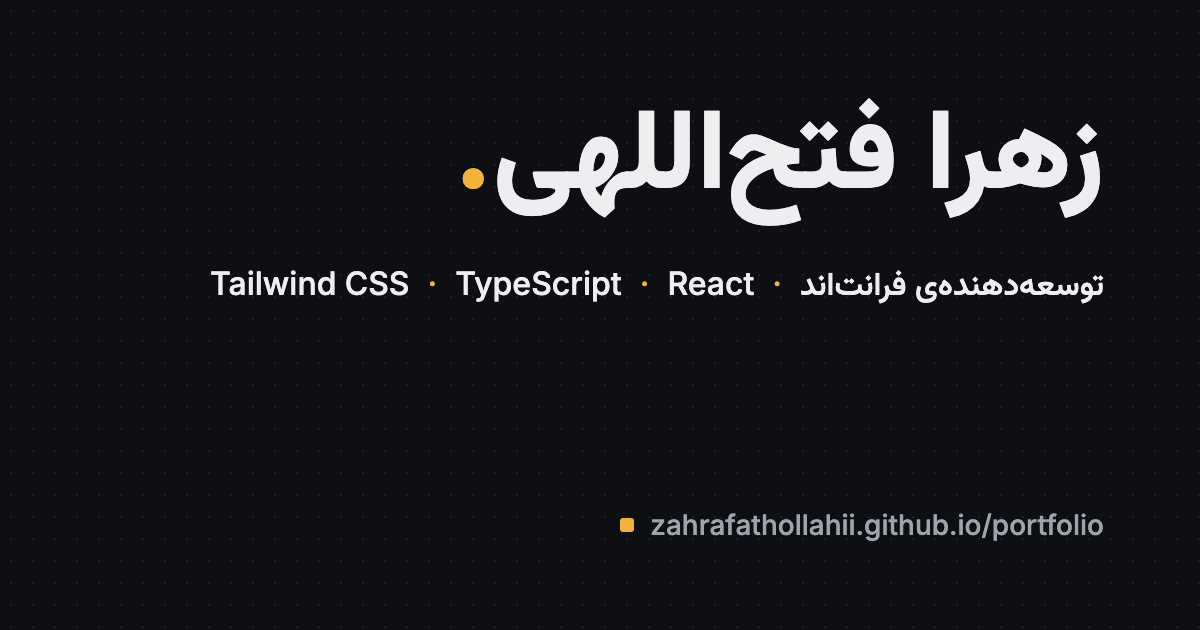
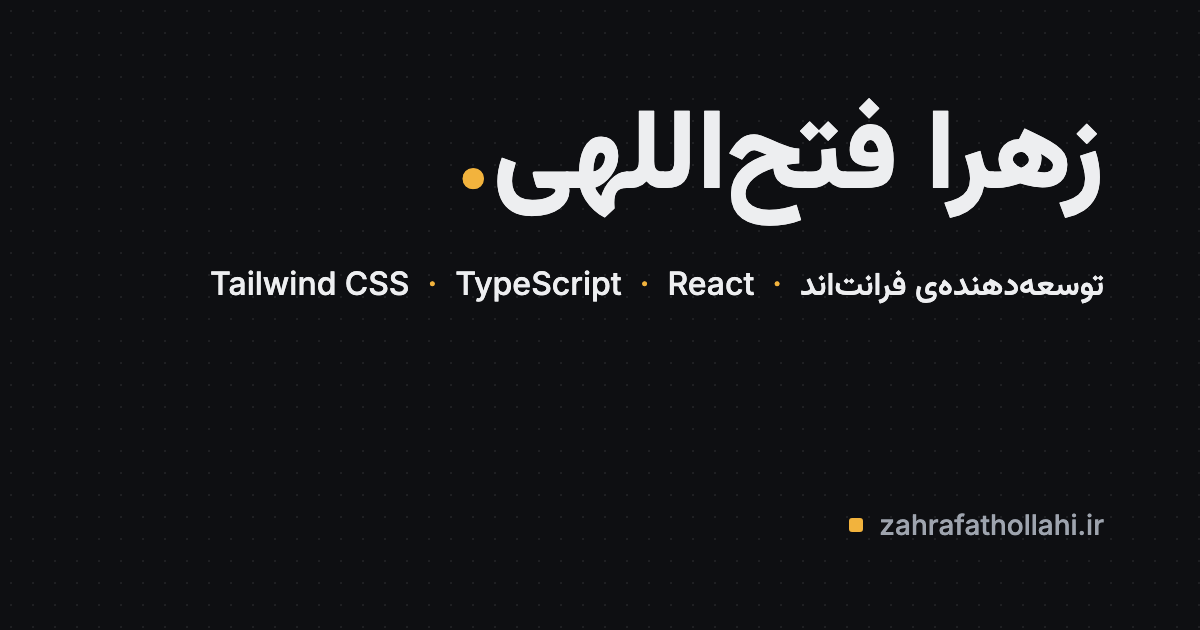
feat: move to the custom domain zahrafathollahi.ir
- BASE_PATH is now empty and SITE_URL is the apex domain (no trailing slash)
- public/CNAME, regenerated OG images, README and AGENTS.md hosting notes
- robots.txt now sits at the domain root, so the old caveat is gone

Changed region(s): [[0.4933, 0.8143, 0.925, 0.8746]]

diff --git a/src/lib/seo.ts b/src/lib/seo.ts
@@ -8,7 +8,7 @@ const openGraphLocale: Record<Locale, string> = { en: "en_US", fa: "fa_IR" };
 
 /** Absolute URL of a localized page. `path` has no leading slash and keeps the trailing one ("projects/mssp/"). */
 export function localeUrl(locale: Locale, path = ""): string {
-  return `${SITE_URL}${locale}/${path}`;
+  return `${SITE_URL}/${locale}/${path}`;
 }
 
 /** hreflang map for a path, with x-default = the default locale. */
@@ -40,7 +40,7 @@ export async function pageMetadata({
   const fullTitle = title ? `${title} · ${t("site.name")}` : t("site.title");
   const url = localeUrl(locale, path);
   const image = {
-    url: `${SITE_URL}og/og-${locale}.png`,
+    url: `${SITE_URL}/og/og-${locale}.png`,
     width: 1200,
     height: 630,
     alt: t("site.title"),

diff --git a/src/config/site.ts b/src/config/site.ts
@@ -3,12 +3,11 @@
  * Everything that builds a URL (links to raw assets, metadata, sitemap, canonical)
  * must read from here — never hard-code the base path.
  */
-export const BASE_PATH = "/portfolio";
+/** Path prefix of the site on its host. Empty: served from the domain root. */
+export const BASE_PATH = "";
 
-const SITE_ORIGIN = "https://zahrafathollahii.github.io";
-
-/** Absolute site URL including base path, with trailing slash. */
-export const SITE_URL = `${SITE_ORIGIN}${BASE_PATH}/`;
+/** Canonical origin (apex; www redirects to it). No trailing slash — append "/path". */
+export const SITE_URL = "https://zahrafathollahi.ir";
 
 /** Shows the "Available for opportunities" badge in the hero. */
 export const SHOW_AVAILABILITY_BADGE = false;

diff --git a/src/app/robots.ts b/src/app/robots.ts
@@ -4,12 +4,9 @@ import { SITE_URL } from "@/config/site";
 
 export const dynamic = "force-static";
 
-// Note: on a GitHub Pages project site this lands at /portfolio/robots.txt, which crawlers
-// don't read (robots.txt only counts at the domain root). The sitemap is still discoverable
-// from here and from Search Console.
 export default function robots(): MetadataRoute.Robots {
   return {
     rules: { userAgent: "*", allow: "/" },
-    sitemap: `${SITE_URL}sitemap.xml`,
+    sitemap: `${SITE_URL}/sitemap.xml`,
   };
 }

diff --git a/AGENTS.md b/AGENTS.md
@@ -4,12 +4,14 @@ Personal bilingual (FA/EN) portfolio. Built in phases; stop at every checkpoint 
 
 ## Hosting
 
-- GitHub Pages: `https://zahrafathollahii.github.io/portfolio/`
-- `next.config.ts`: `output: 'export'`, `basePath: '/portfolio'`, `trailingSlash: true`, `images.unoptimized: true`.
-- The base path / site URL live **only** in `src/config/site.ts` (`BASE_PATH`, `SITE_URL`).
+- GitHub Pages with a custom domain: `https://zahrafathollahi.ir` (apex is canonical; `www` redirects to it).
+  `public/CNAME` holds the domain; the custom domain must also be set in the repo's Pages settings.
+- `next.config.ts`: `output: 'export'`, `basePath: BASE_PATH` (currently `""`), `trailingSlash: true`, `images.unoptimized: true`.
+- The base path / site URL live **only** in `src/config/site.ts` (`BASE_PATH`, `SITE_URL` — no trailing slash).
   Every raw asset path, OG image, sitemap, canonical and hreflang URL reads from there.
-  Never hard-code `/portfolio` anywhere else. (`next/link`, `next/font` and statically imported `next/image` sources add it automatically;
-  a string `src` does not — images live in `src/assets/` and are imported.)
+  Never hard-code the domain or a base path anywhere else. Raw asset paths go through `assetPath()`;
+  `next/link`, `next/font` and statically imported `next/image` sources handle the base path themselves
+  (a string `src` does not — images live in `src/assets/` and are imported).
 
 ## Mindset
 

diff --git a/README.md b/README.md
@@ -1,7 +1,7 @@
 # Zahra Fathollahi — Portfolio
 
 Bilingual (English / Persian) portfolio of Zahra Fathollahi, front-end developer.
-Live at **https://zahrafathollahii.github.io/portfolio/**.
+Live at **https://zahrafathollahi.ir**.
 
 <!-- TODO(screenshots): add home page screenshots (EN + FA, dark + light) before launch. -->
 
@@ -29,7 +29,7 @@ Requires Node 24 (see `.nvmrc`) and Yarn 4 via Corepack.
 ```bash
 corepack enable
 yarn install
-yarn dev        # http://localhost:3000/portfolio/en/
+yarn dev        # http://localhost:3000/en/
 ```
 
 ## Scripts
@@ -63,7 +63,7 @@ Hosting paths are defined once in `src/config/site.ts`. Conventions for contribu
 ## Deployment
 
 - **CI** (`.github/workflows/ci.yml`) runs lint, typecheck, format, tests, `i18n:check` and the build on every push and pull request.
-- **Deploy** (`.github/workflows/deploy.yml`) is started manually from the Actions tab. It runs `launch:check`, builds, runs `launch:check --built`, and publishes `out/` to GitHub Pages. GitHub Pages must use **Source: GitHub Actions**.
+- **Deploy** (`.github/workflows/deploy.yml`) is started manually from the Actions tab. It runs `launch:check`, builds, runs `launch:check --built`, and publishes `out/` to GitHub Pages. GitHub Pages must use **Source: GitHub Actions**, with the custom domain `zahrafathollahi.ir` set under Settings → Pages (also recorded in `public/CNAME`).
 
 ## License
 
